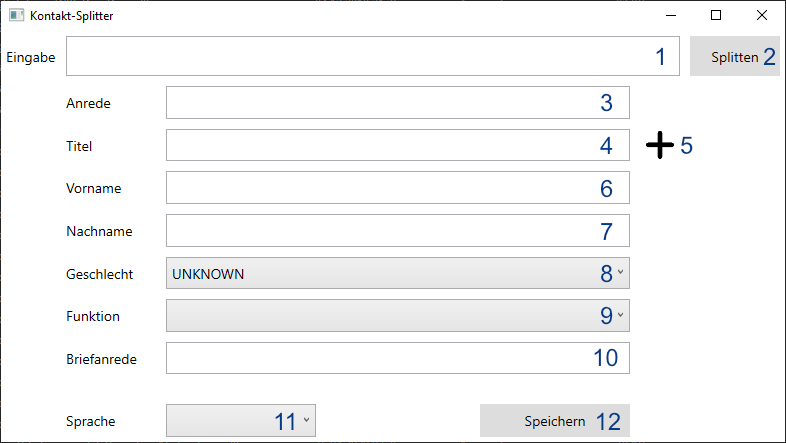
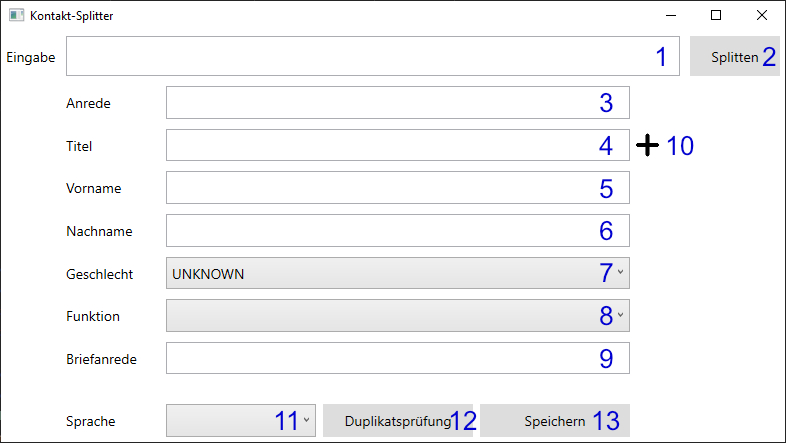
doku for new gui

diff --git a/README.md b/README.md
@@ -18,18 +18,20 @@ Hier ist die Oberfläche der Software zu sehen. Die beschriebenen Funktionen sin
 
 ![Oberfäche](Documentation/kontakt-splitter.jpg)
 
-1. Hier wird die Anrede eingegeben. Nach Bestätigen durch den "Splitten"-Knopf (2) wird die Anrede aufgeteilt und in den Feldern 3,4,6,7,8 angezeigt.
+1. Hier wird die Anrede eingegeben. Nach Bestätigen durch den "Splitten"-Knopf (2) wird die Anrede aufgeteilt und in den Feldern 3-7 angezeigt.
 2. Der "Splitten"-Knopf löst das Aufteilen der Anrede aus (siehe 1.).
-3. Hier wird die Anrede der Person angezeigt. Aus der Anrede wird automatisch das Geschlecht ermittelt.
-4. Hier wird eine Liste der Titel der Person angezeigt. In die Briefanrede wird lediglich der erste Titel übernommen. Durch Drag´n Drop lässt sich dieser Titel anpassen. Durch anklicken eines Titels wird die Briefanrede anktualisiert. Mit einem Rechtsklick lässt sich ein Titel löschen. Dieser wird zukünftig nicht mehr erkannt.
-5. Durch diesen Knopf öffnet sich ein neues Fenster in dem ein neuer Titel hinzugefügt werden kann (siehe extra Fenster).
-6. Hier wird der Vorname der Person angezeigt. Bei Änderung wird die Briefanrede automatisch aktualisiert.
-7. Hier wird der Nachname der Person angezeigt. Bei Änderung wird die Briefanrede automatisch aktualisiert.
-8. Das Geschlecht wird in einer Dropdown-Liste angezeigt. Bei einer Änderung wird die Briefanrede neu generiert. Wenn kein Geschlecht erkannt werden kann, wird als Standardwert "UNKNOWN" gesetzt.
-9. Für eine Person kann alternativ eine Funktion gewählt werden. Dadurch wird die Person in der Briefanrede in dieser Funktion angesprochen. Die Funktion wird automatisch anhand des Geschlechtes angepasst.
-10. Hier wird die generierte Briefanrede angezeigt.
-11. Hier wird die erkannte Sprache angezeigt. Eine Änderung hat noch keine Auswirkung.
-12. Dieser Knopf ist an das CRM-System angeschlossen um den Kontakt zu speichern. Noch besitzt dieser keine Funktion.
+3. Hier wird die Anrede der Person angezeigt. Aus der Anrede wird automatisch das Geschlecht ermittelt. Durch das Ändern des Geschlechts wird auch die Anrede angepasst. Diese kann jedoch nicht immer exakt bestimmt werden (bspw. im Englischen ist es unbekannt, ob Ms oder Mrs genutzt werden soll). Dieses Feld kann angepasst werden, hat jedoch nicht in jeder Sprache eine Auswirkung. Im Deutschen wird dieses Feld nicht genutzt, sondern nur das Geschlecht.
+4. Hier wird eine Liste der Titel der Person angezeigt. In die Briefanrede wird lediglich der erste Titel übernommen. Durch Drag´n Drop lässt sich dieser Titel anpassen. Durch anklicken eines Titels wird die Briefanrede aktualisiert. Mit einem Rechtsklick lässt sich ein Titel löschen. Dieser wird zukünftig nicht mehr erkannt.
+5. Hier wird der Vorname der Person angezeigt. Bei Änderung wird die Briefanrede automatisch aktualisiert.
+6. Hier wird der Nachname der Person angezeigt. Bei Änderung wird die Briefanrede automatisch aktualisiert.
+7. Das Geschlecht wird in einer Dropdown-Liste angezeigt. Bei einer Änderung wird die Briefanrede neu generiert. Wenn kein Geschlecht erkannt werden kann, wird als Standardwert "UNKNOWN" gesetzt.
+8. Für eine Person kann alternativ eine Funktion gewählt werden. Dadurch wird die Person in der Briefanrede in dieser Funktion angesprochen. Die Funktion wird automatisch anhand des Geschlechtes angepasst.
+9. Hier wird die generierte Briefanrede angezeigt.
+10. Durch diesen Knopf öffnet sich ein neues Fenster in dem ein neuer Titel hinzugefügt werden kann (siehe extra Fenster). Diese Funktion steht nur zur Verfügung, wenn ein Kontakt gesplittet ist.
+11. Hier wird die erkannte Sprache angezeigt. Eine Änderung hat keine Auswirkung auf den Kontakt. Das wird in einem zukünftigen Sprint hinzugefügt.
+12. Dieser Knopf ist an das CRM-System angeschlossen um zu prüfen, ob der Kontakt bereits existiert. Noch besitzt dieser keine Funktion.
+13. Dieser Knopf ist an das CRM-System angeschlossen um den Kontakt zu speichern. Noch besitzt dieser keine Funktion.
+
 
 ![Kontakt hinzufügen](Documentation/kontakt-splitter-add.jpg)
 1. Hier wird der neue Titel eingegeben.
@@ -42,6 +44,15 @@ Adelstitel werden noch nicht in ein eigenes Feld aufgeteilt, sondern dem Nachnam
 Das Erkennen von mehreren Vornamen ist noch nicht implementiert. Der erste Vorname wird als Vorname gesetzt, der Rest wird als Nachname genutzt.
 
 Die Software erkennt bisher nur deutsche und englische Anreden. Weitere Sprachen können hinzugefügt werden. Dafür muss eine Konfiguration für die neue Sprache hinzugefügt werden und eine neuen Klasse hinzugefügt werden, welche von der abstrakte Klasse "Language" erbt um die Grußformel zu generieren.
+
+Das Geschlecht wird anhand der Anrede erkannt. In der erweiterbaren Konfiguration sind bisher folgende Anreden hinterlegt:
+
+Sprache | Anreden | Geschlecht
+--- | --- | ---
+Deutsch | Herr / Hr. | MALE
+Deutsch | Frau / Fr. | FEMALE
+Englisch | Mrs. / Mrs / Ms. / Ms | FEMALE
+Englisch | Mr. / Mr | MALE
 
 ## Erklärung
 
